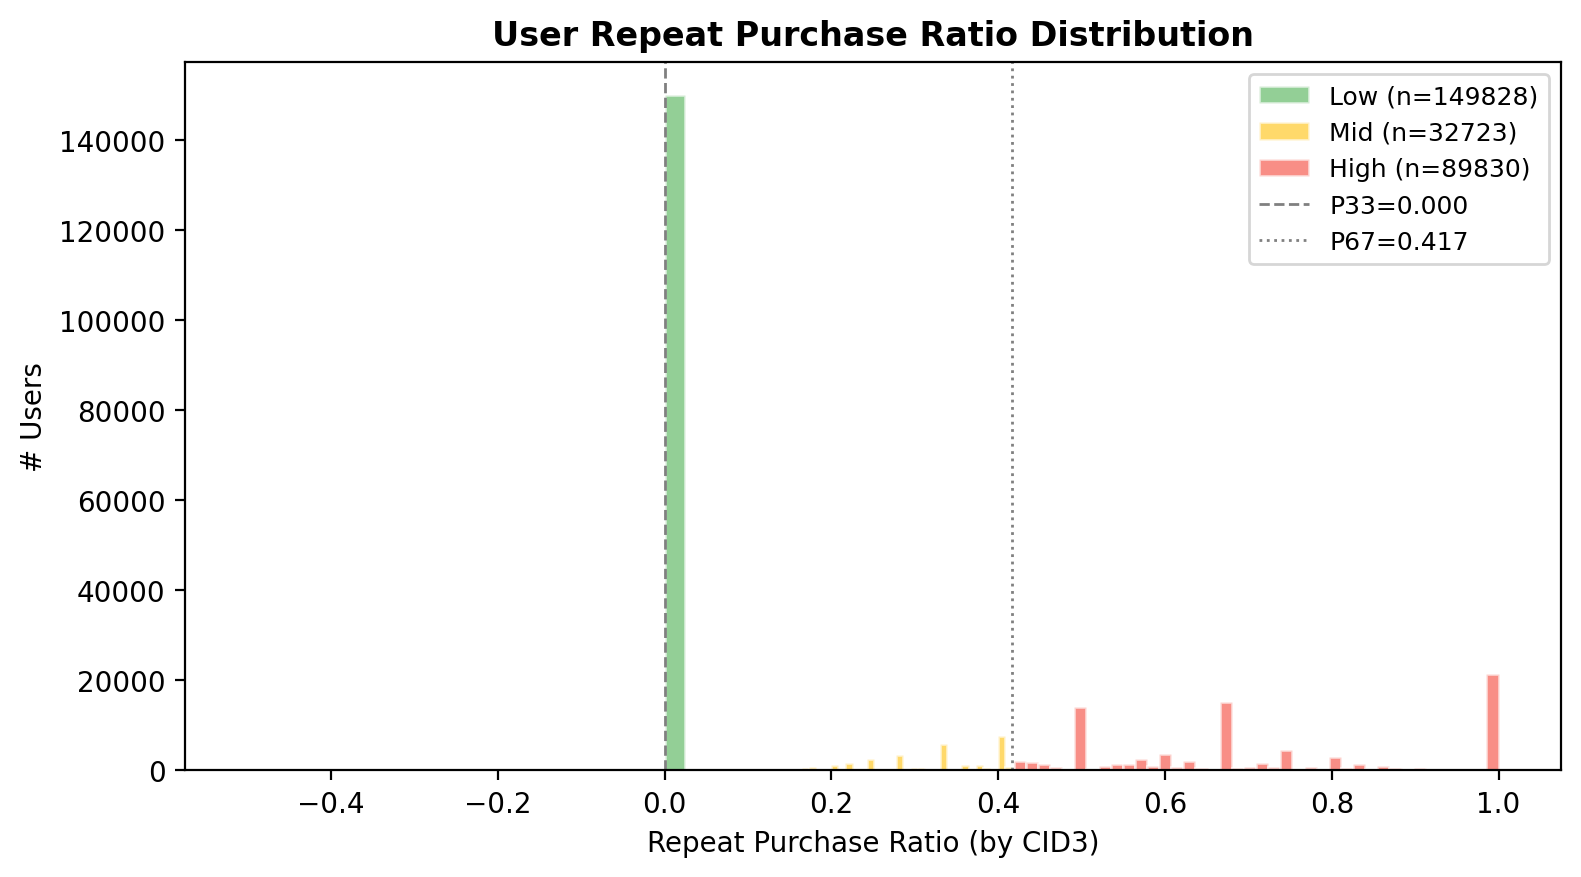
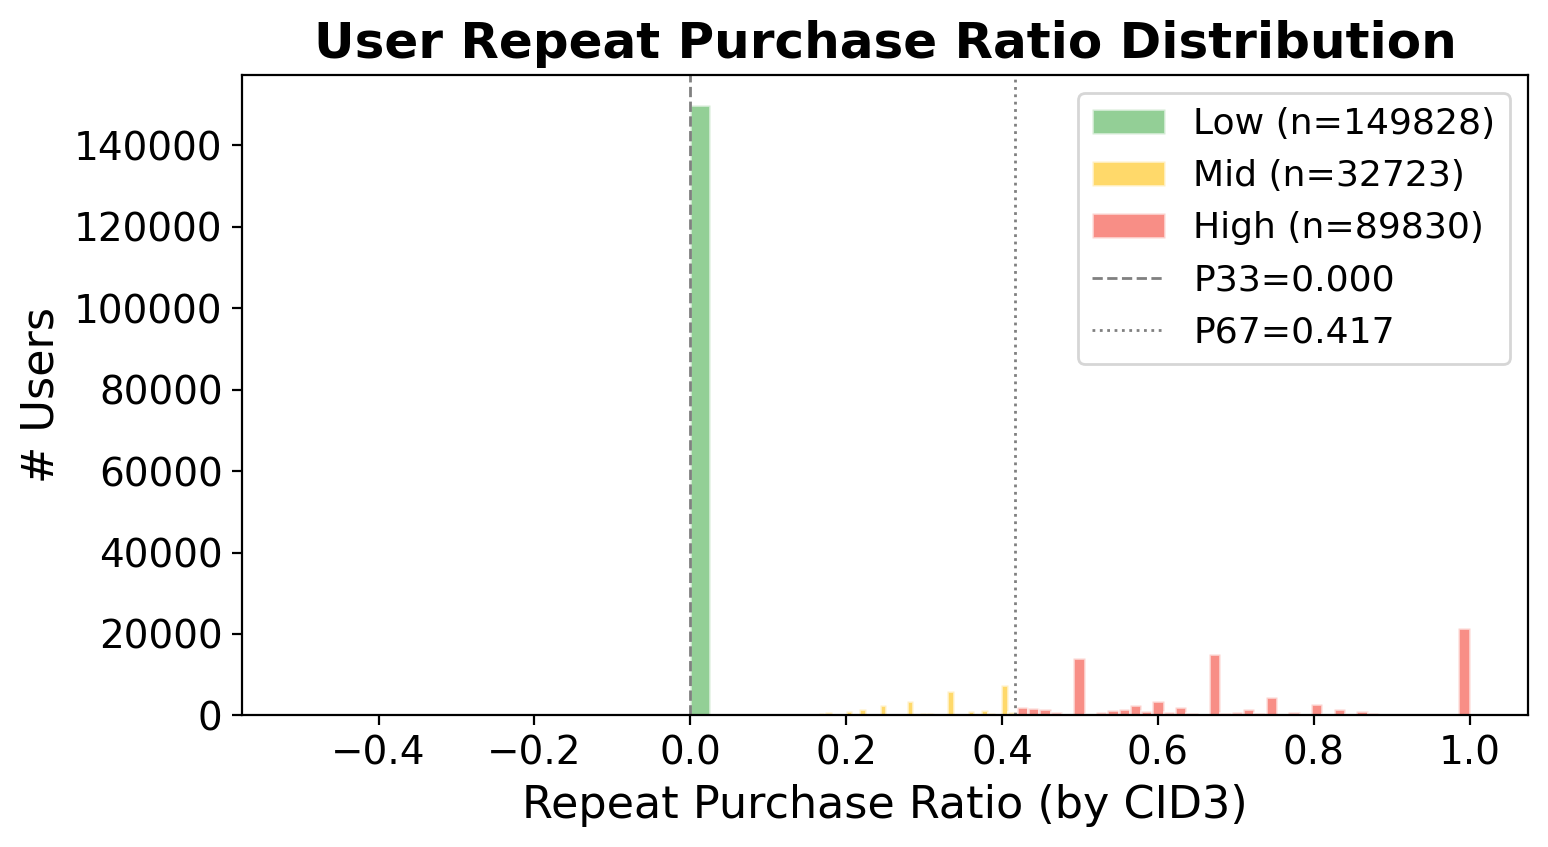
rq2:bigger picture

diff --git a/experiments/RQ2/analyze_rq2.py b/experiments/RQ2/analyze_rq2.py
@@ -29,6 +29,17 @@ import matplotlib
 matplotlib.use('Agg')
 import matplotlib.pyplot as plt
 
+# 全域字體放大
+plt.rcParams.update({
+    'font.size': 16,
+    'axes.titlesize': 18,
+    'axes.labelsize': 16,
+    'xtick.labelsize': 14,
+    'ytick.labelsize': 14,
+    'legend.fontsize': 14,
+    'figure.titlesize': 20,
+})
+
 from models import SDIASR
 from utils.graph_utils import create_sr_matrices
 
@@ -187,7 +198,7 @@ def analyze_projection_weights(model, output_dir):
 
     # 權重矩陣視覺化
     fig, axes = plt.subplots(2, 3, figsize=(16, 8))
-    fig.suptitle('Projection Layer Weight Comparison: proj_sim vs proj_cor', fontsize=13, fontweight='bold')
+    fig.suptitle('Projection Layer Weight Comparison: proj_sim vs proj_cor', fontsize=20, fontweight='bold')
 
     for row, (idx, name) in enumerate(layers):
         w_sim = model.proj_sim[idx].weight.data.cpu().numpy()
@@ -205,7 +216,7 @@ def analyze_projection_weights(model, output_dir):
                                vmin=-vmax * 0.3, vmax=vmax * 0.3)
             else:
                 im = ax.imshow(data, aspect='auto', cmap='viridis', vmin=-vmax, vmax=vmax)
-            ax.set_title(title, fontsize=10)
+            ax.set_title(title, fontsize=16)
             plt.colorbar(im, ax=ax, fraction=0.046)
 
     plt.tight_layout(rect=[0, 0, 1, 0.95])
@@ -323,7 +334,7 @@ def analyze_user_clustering(model, device, adj_sim, adj_sim_dele, adj_cor, adj_c
     # ---- 視覺化 1：箱型圖 ----
     fig, axes = plt.subplots(1, 3, figsize=(15, 5))
     fig.suptitle('User Sequence Clustering: x_sim vs x_cor by Repeat Purchase Group',
-                 fontsize=13, fontweight='bold')
+                 fontsize=20, fontweight='bold')
 
     for g, ax in enumerate(axes):
         data = [sim_clustering[g], cor_clustering[g]]
@@ -333,14 +344,14 @@ def analyze_user_clustering(model, device, adj_sim, adj_sim_dele, adj_cor, adj_c
         bp['boxes'][0].set_alpha(0.7)
         bp['boxes'][1].set_facecolor('#FF5722')
         bp['boxes'][1].set_alpha(0.7)
-        ax.set_title(f'{group_names[g]}', fontsize=11)
+        ax.set_title(f'{group_names[g]}', fontsize=16)
         ax.set_ylabel('Intra-sequence Cosine Similarity')
 
         # 加上 t-test 結果
         t_stat, p_val = stats.ttest_ind(sim_clustering[g], cor_clustering[g])
         sig = '***' if p_val < 0.001 else '**' if p_val < 0.01 else '*' if p_val < 0.05 else 'n.s.'
         ax.text(0.5, 0.95, f'p={p_val:.2e} {sig}', transform=ax.transAxes,
-                ha='center', va='top', fontsize=9, style='italic')
+                ha='center', va='top', fontsize=13, style='italic')
 
     plt.tight_layout(rect=[0, 0, 1, 0.93])
     save_path = os.path.join(output_dir, 'user_clustering_boxplot.png')
@@ -351,7 +362,7 @@ def analyze_user_clustering(model, device, adj_sim, adj_sim_dele, adj_cor, adj_c
     # ---- 視覺化 2：分布對比 + 統計檢定 ----
     fig, axes = plt.subplots(2, 3, figsize=(16, 8))
     fig.suptitle('Intra-sequence Similarity Distribution by User Group',
-                 fontsize=13, fontweight='bold')
+                 fontsize=20, fontweight='bold')
 
     for g in range(3):
         # x_sim 分布
@@ -359,8 +370,8 @@ def analyze_user_clustering(model, device, adj_sim, adj_sim_dele, adj_cor, adj_c
                         edgecolor='white', label='x_sim')
         axes[0, g].hist(cor_clustering[g], bins=50, alpha=0.7, color='#FF5722',
                         edgecolor='white', label='x_cor')
-        axes[0, g].set_title(f'{group_names[g]}', fontsize=11)
-        axes[0, g].legend(fontsize=9)
+        axes[0, g].set_title(f'{group_names[g]}', fontsize=16)
+        axes[0, g].legend(fontsize=13)
         if g == 0:
             axes[0, g].set_ylabel('# Users')
 
@@ -370,8 +381,8 @@ def analyze_user_clustering(model, device, adj_sim, adj_sim_dele, adj_cor, adj_c
         axes[1, g].axvline(0, color='black', linestyle='--', linewidth=1)
         axes[1, g].axvline(diff.mean(), color='red', linestyle='-', linewidth=1.5,
                            label=f'Mean={diff.mean():.4f}')
-        axes[1, g].set_title(f'Difference (sim - cor)', fontsize=10)
-        axes[1, g].legend(fontsize=9)
+        axes[1, g].set_title(f'Difference (sim - cor)', fontsize=16)
+        axes[1, g].legend(fontsize=13)
         if g == 0:
             axes[1, g].set_ylabel('# Users')
 
@@ -442,8 +453,8 @@ def plot_repeat_ratio_distribution(ratios, groups, p33, p67, output_dir):
     ax.axvline(p67, color='gray', linestyle=':', linewidth=1, label=f'P67={p67:.3f}')
     ax.set_xlabel('Repeat Purchase Ratio (by CID3)')
     ax.set_ylabel('# Users')
-    ax.set_title('User Repeat Purchase Ratio Distribution', fontsize=12, fontweight='bold')
-    ax.legend(fontsize=9)
+    ax.set_title('User Repeat Purchase Ratio Distribution', fontsize=18, fontweight='bold')
+    ax.legend(fontsize=13)
 
     plt.tight_layout()
     save_path = os.path.join(output_dir, 'repeat_ratio_distribution.png')
@@ -475,7 +486,7 @@ def plot_summary_bar(sim_clustering, cor_clustering, output_dir):
     ax.set_xticklabels(group_names)
     ax.set_ylabel('Mean Intra-sequence Cosine Similarity')
     ax.set_title('Semantic Division of Labor: x_sim vs x_cor by User Group',
-                 fontsize=12, fontweight='bold')
+                 fontsize=18, fontweight='bold')
     ax.legend()
 
     plt.tight_layout()
